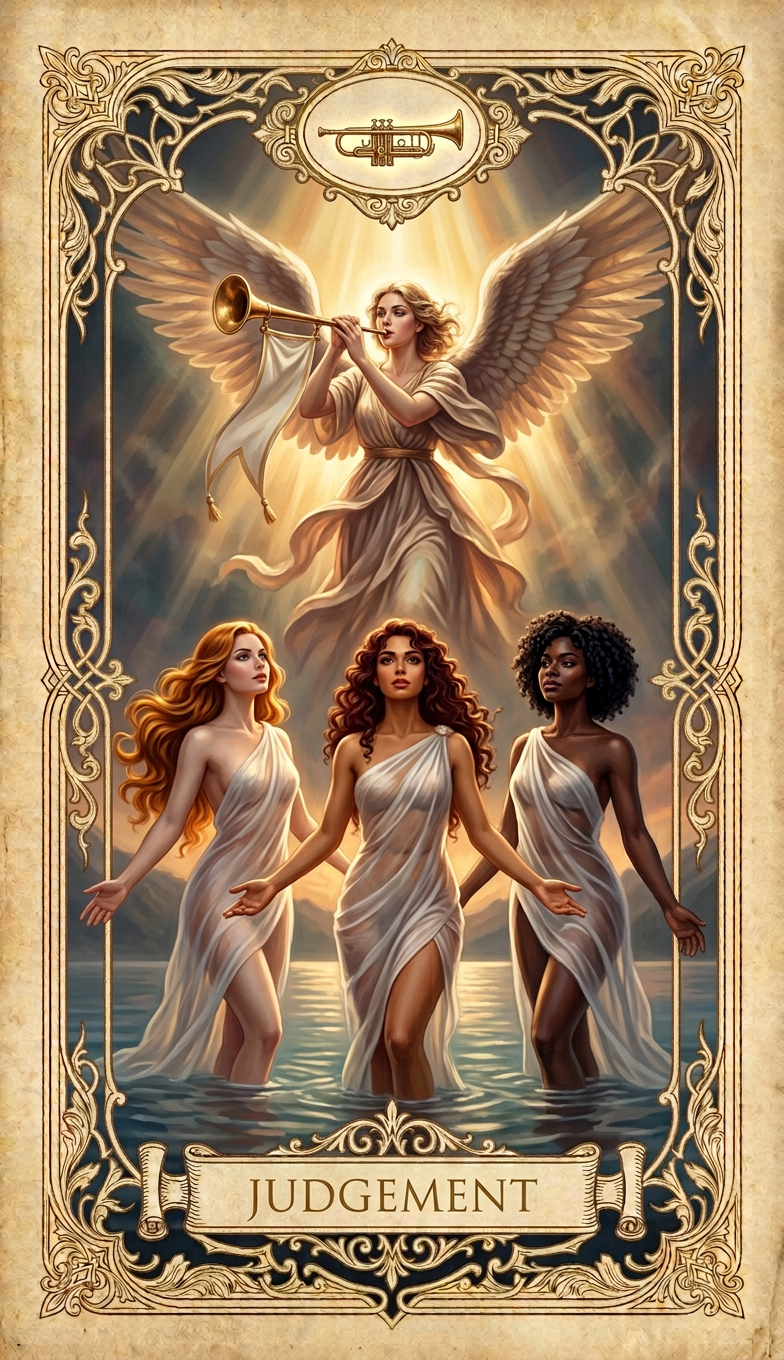
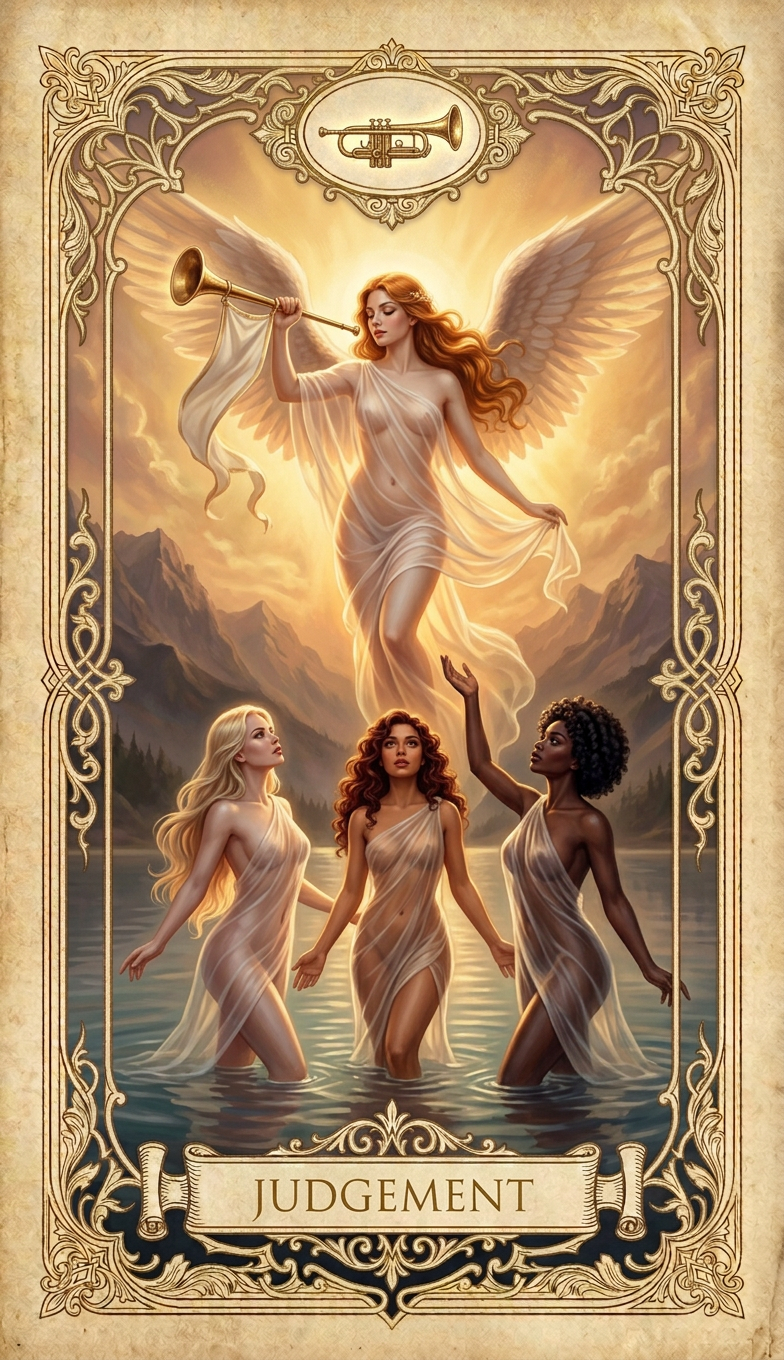
Judgement: softer demeanor + more sensual + transparent silk
Reworked: serene angel draped in diaphanous transparent silk gently lifting
the trumpet; the three rising women now also draped in sheer transparent
silk, each with distinct hair/features. Frame-verified vs The Star (RMSE 0.019).

diff --git a/cards/index.html b/cards/index.html
@@ -238,7 +238,7 @@
             <div class="card-details">
                 <div class="card-title">JUDGEMENT</div>
                 <div class="card-meta"><strong>Độ tuổi:</strong> 22 years old &bull; <strong>Huy hiệu:</strong> a golden trumpet</div>
-                <div class="card-scene">a radiant winged female angel blowing a golden trumpet with a white banner; below, rising from calm waters, three beautiful nude young women with open arms turning toward the divine light — one fair-skinned with flowing blonde hair, one warm-toned with dark auburn curls, and one deep-skinned with tight black coils — each with a distinct face and figure</div>
+                <div class="card-scene">a serene winged female angel draped only in a diaphanous transparent silk veil that clings to her soft curves and glows with warm light, gently lifting a golden trumpet with a white banner; below, rising from calm waters, three beautiful young women with softly open arms turning toward the divine light — one fair-skinned with flowing blonde hair, one warm-toned with dark auburn curls, and one deep-skinned with tight black coils — each with a distinct face and figure, each draped in sheer transparent silk</div>
             </div>
         </div>
         <div class="card-item">
